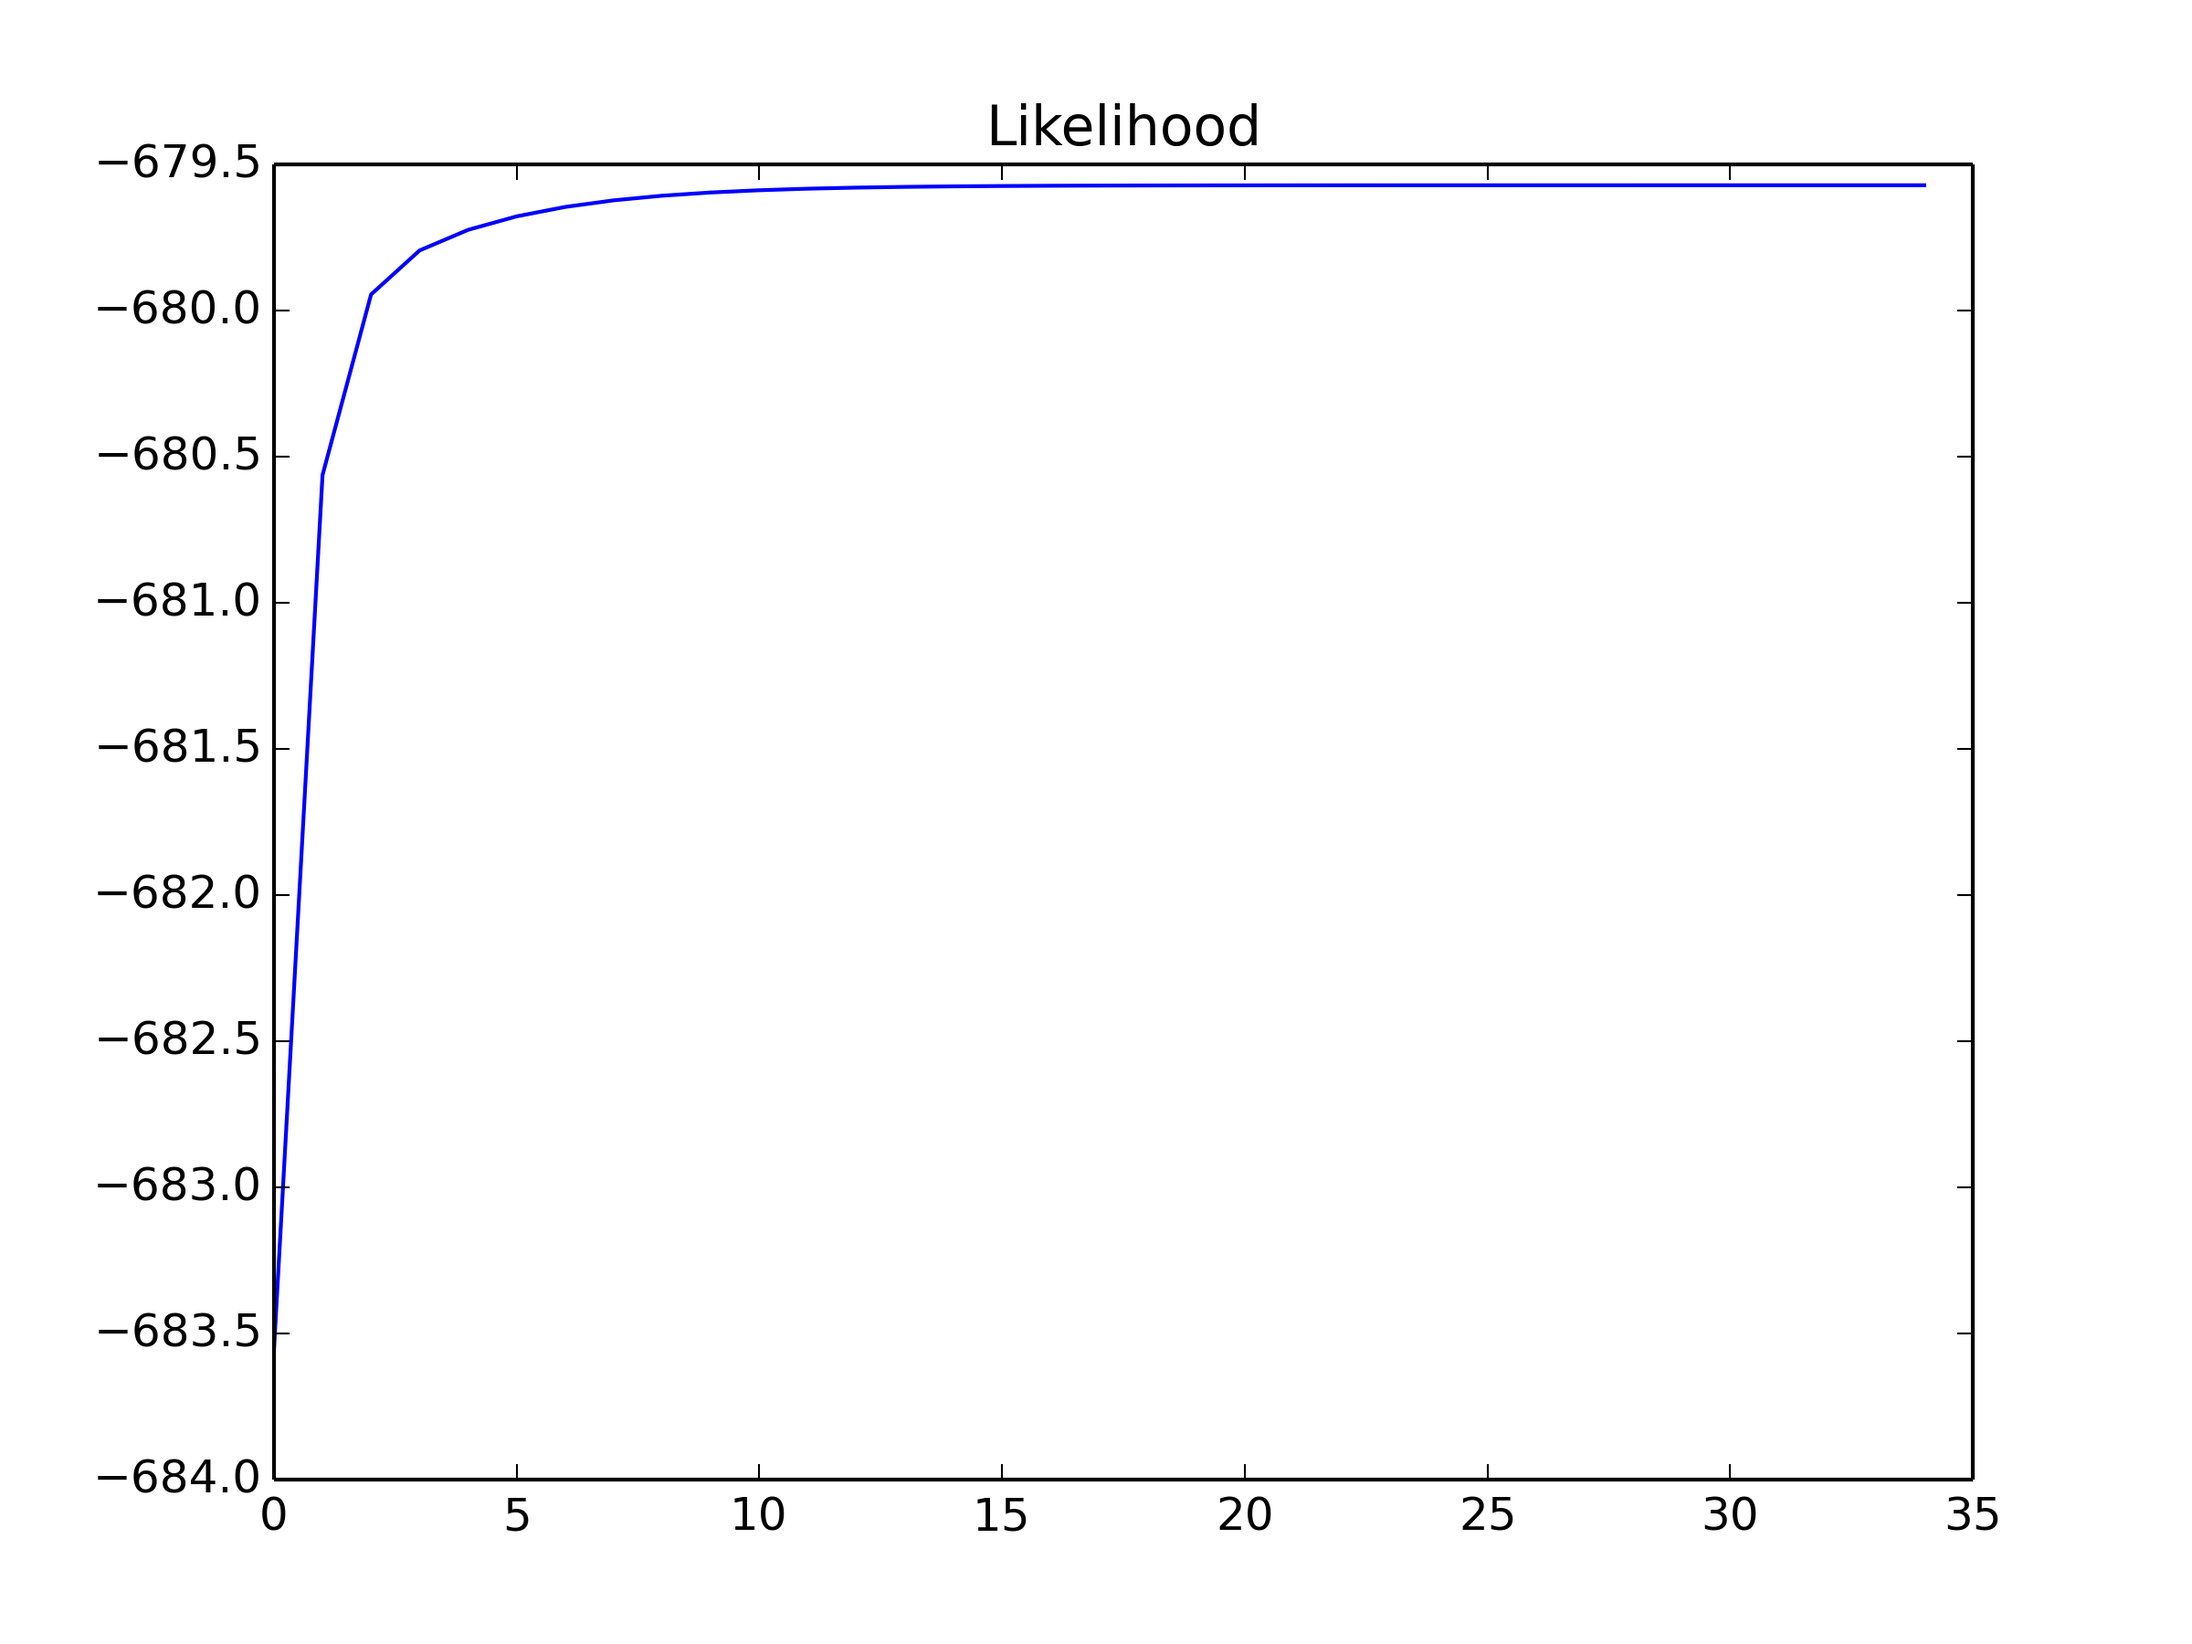
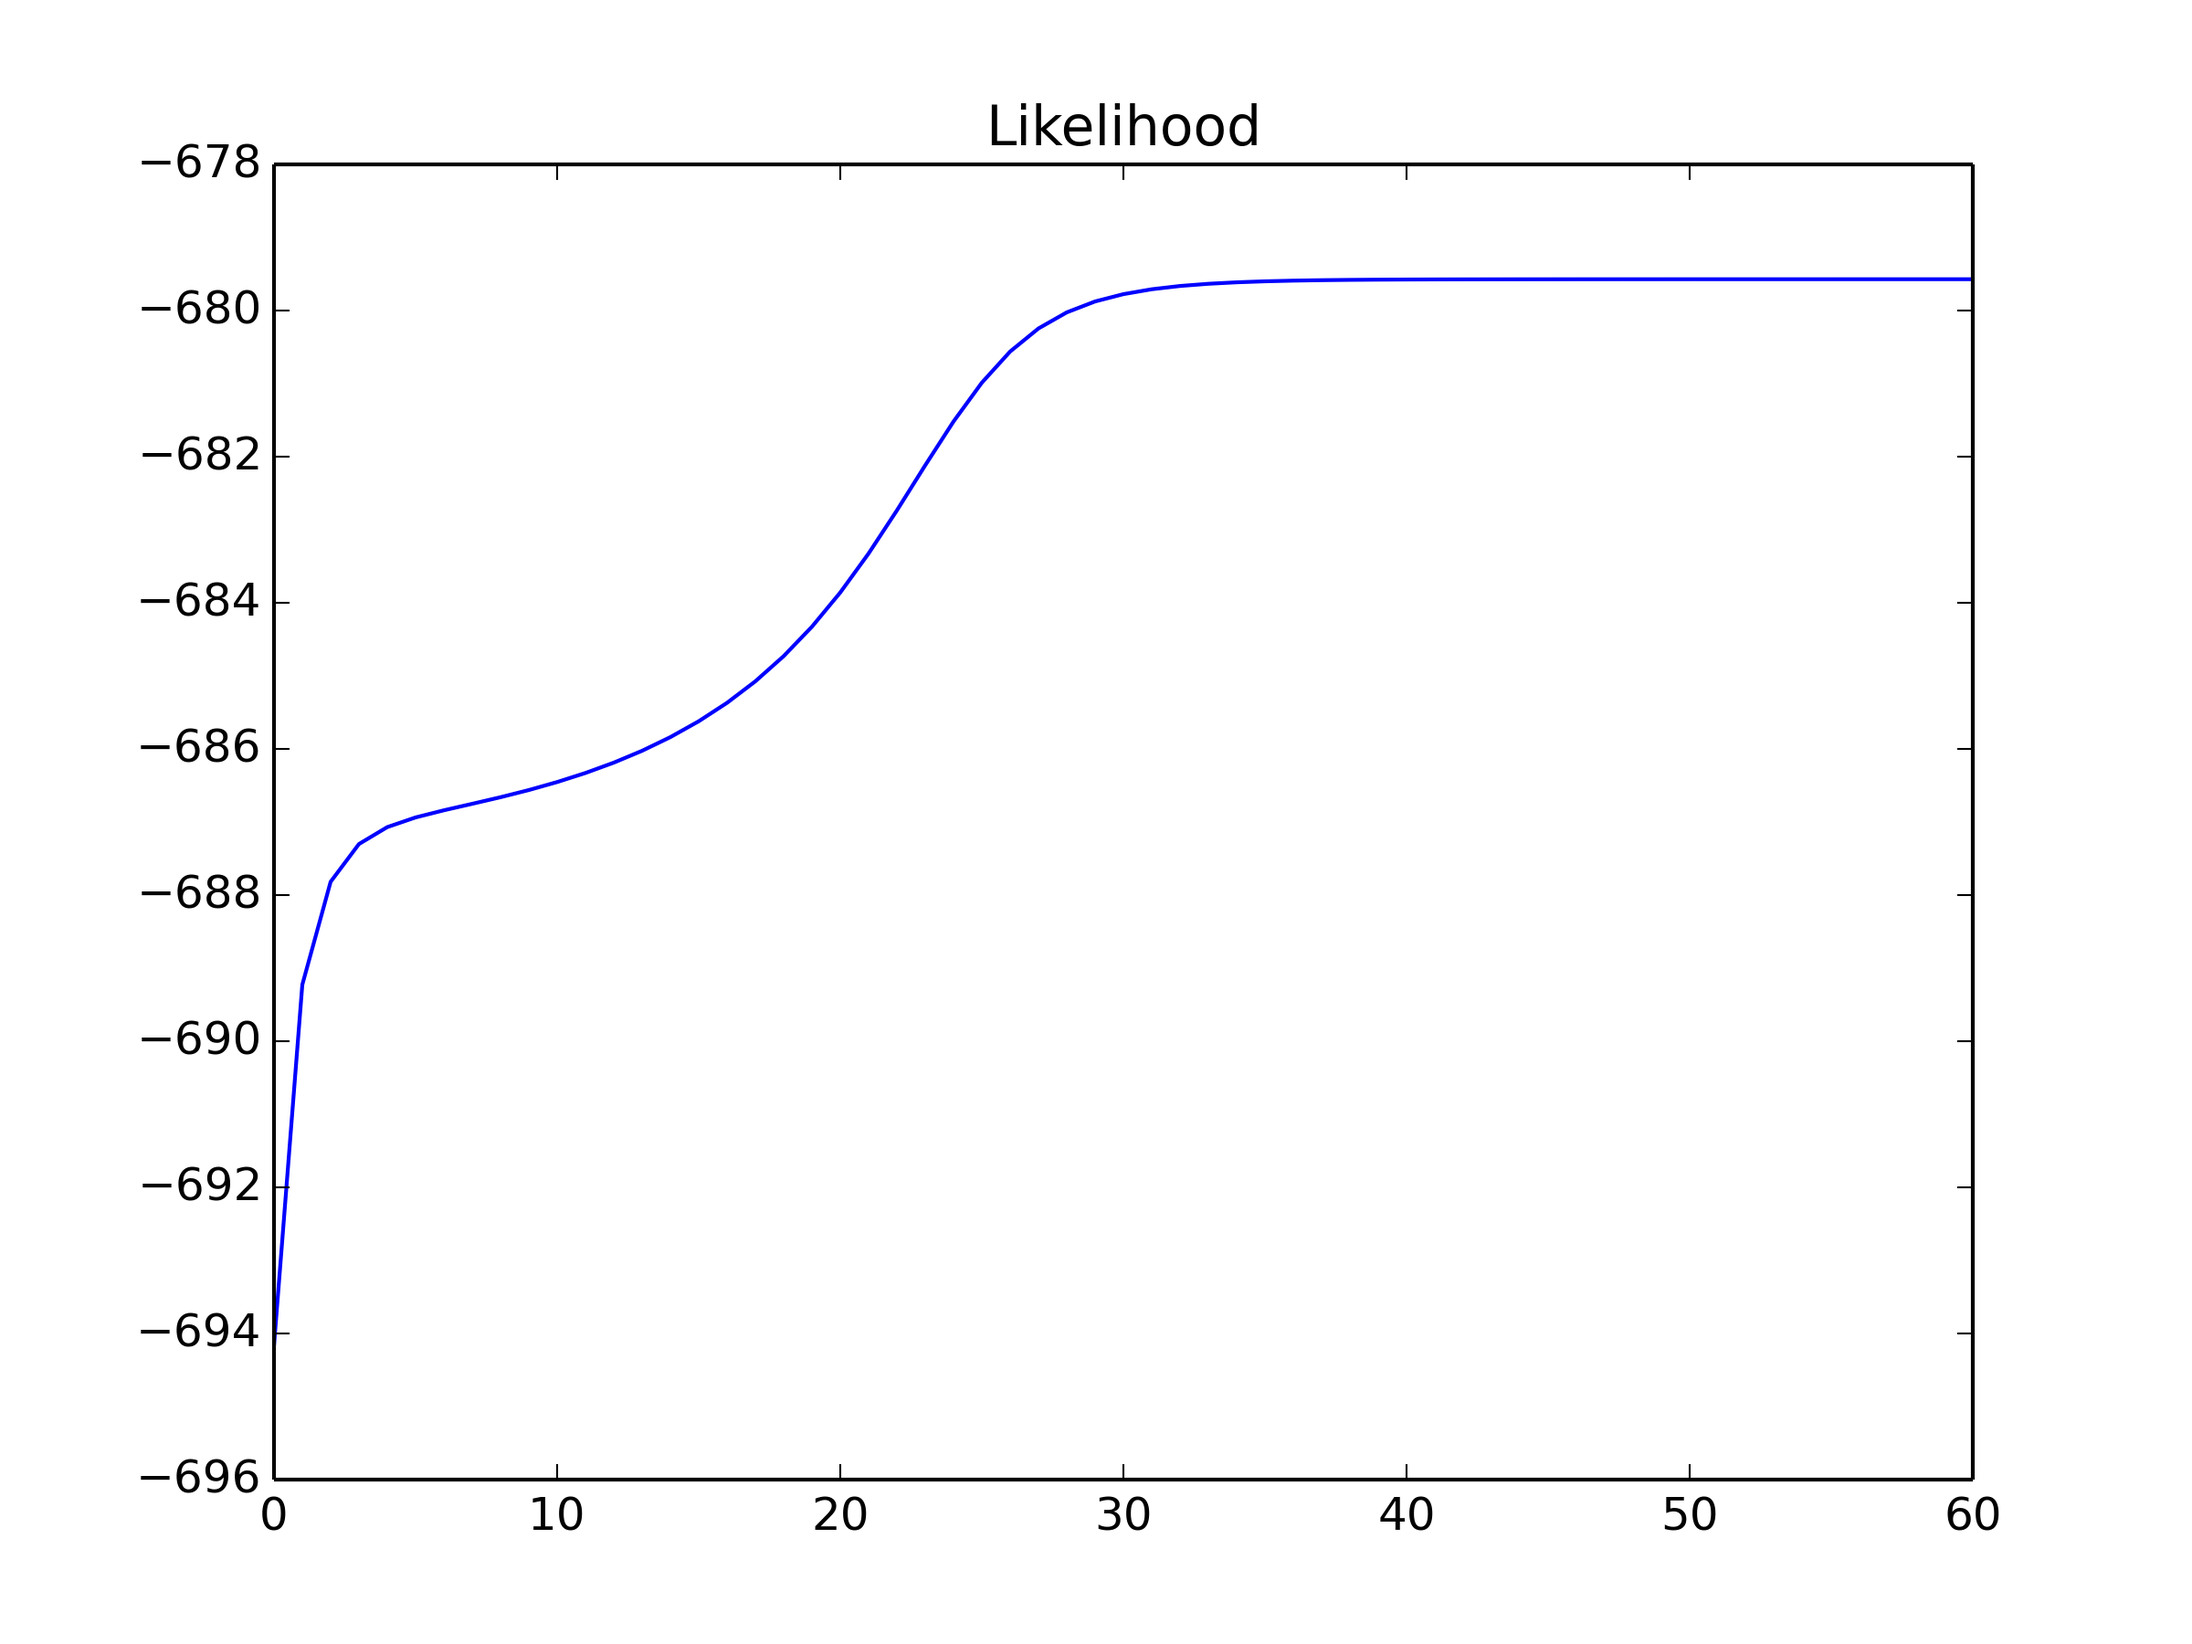
update

diff --git a/solution/mygmm.py b/solution/mygmm.py
@@ -106,6 +106,8 @@ class GMM:
                     else:
                         label = np.argmax([weights_[i]*self._gaussian(X[t], means_[i], covars_[i]) for i in range(self.n_components)])
                         p[label][t] = 1
+                        for i in range(self.n_components):
+                            if label != i: p[i][t] = 0
 
                 # M-step
                 n_cap = [sum([p[i][t] for t in range(n)]) for i in range(self.n_components)]
@@ -188,7 +190,7 @@ class GMM:
 
 def main():
     X = np.loadtxt(open('../data/data.txt',"rb"),delimiter=" ",skiprows=0)
-    clf = GMM(n_components=2, n_init=1, tol=1e-6, n_iter=200, verbose=True, image=True)
+    clf = GMM(n_components=2, n_init=1, tol=1e-6, n_iter=200, verbose=False, image=True, soft=True)
     clf.fit(X)
 
 if __name__ == '__main__':
